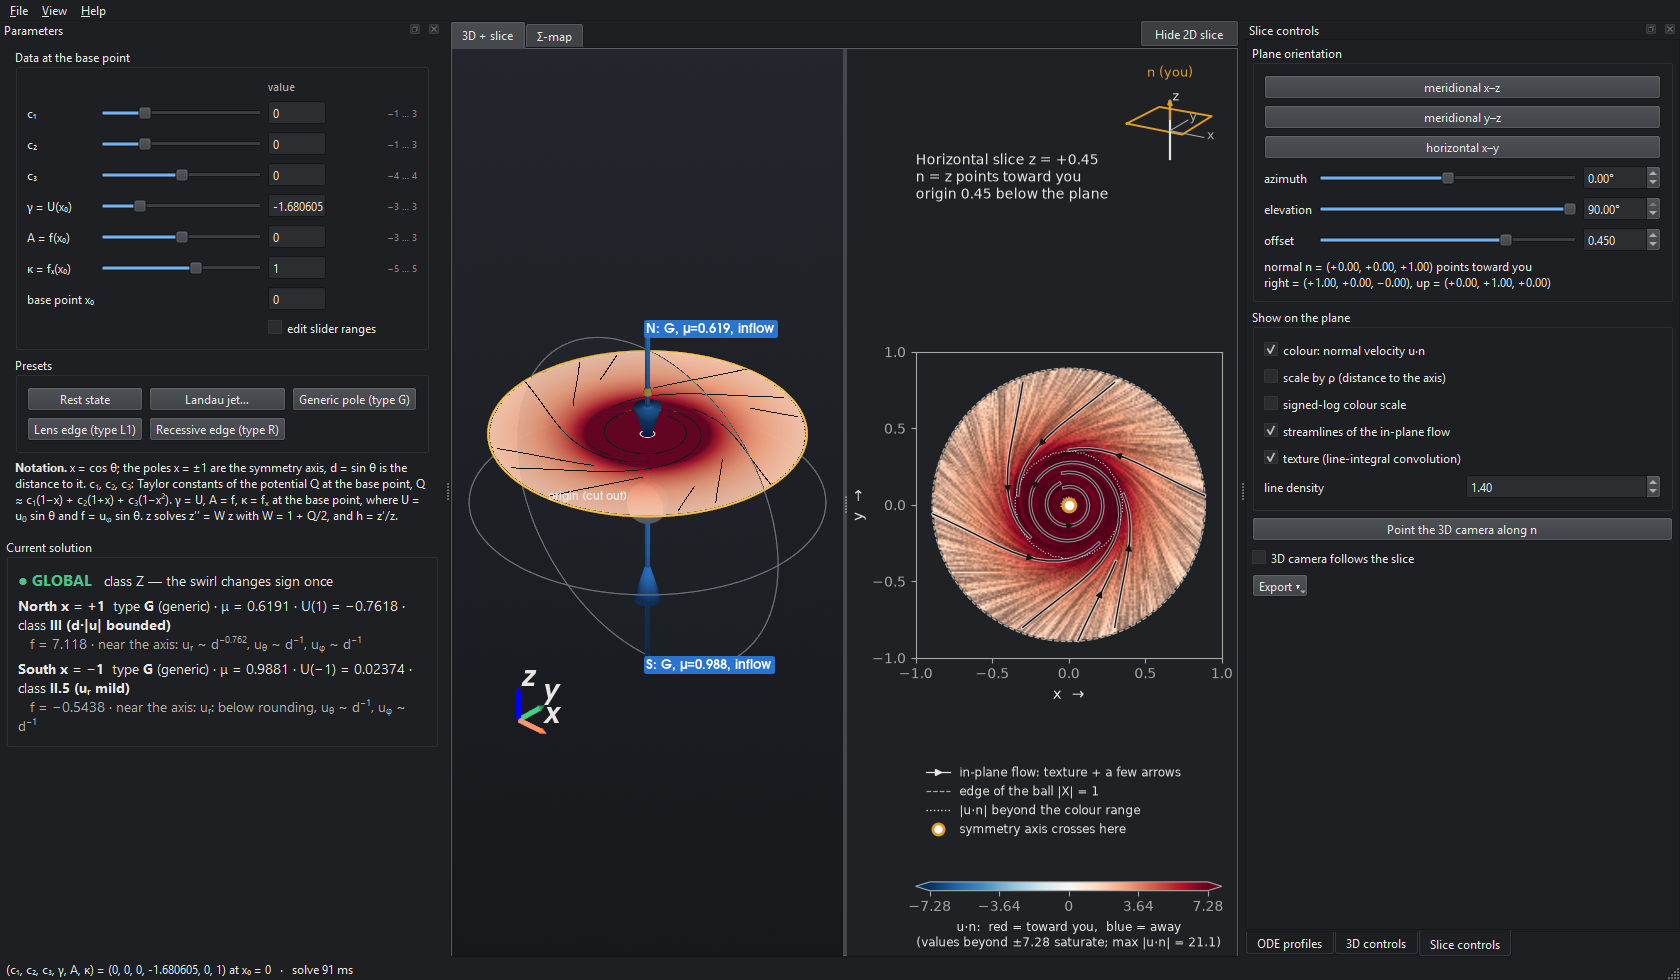
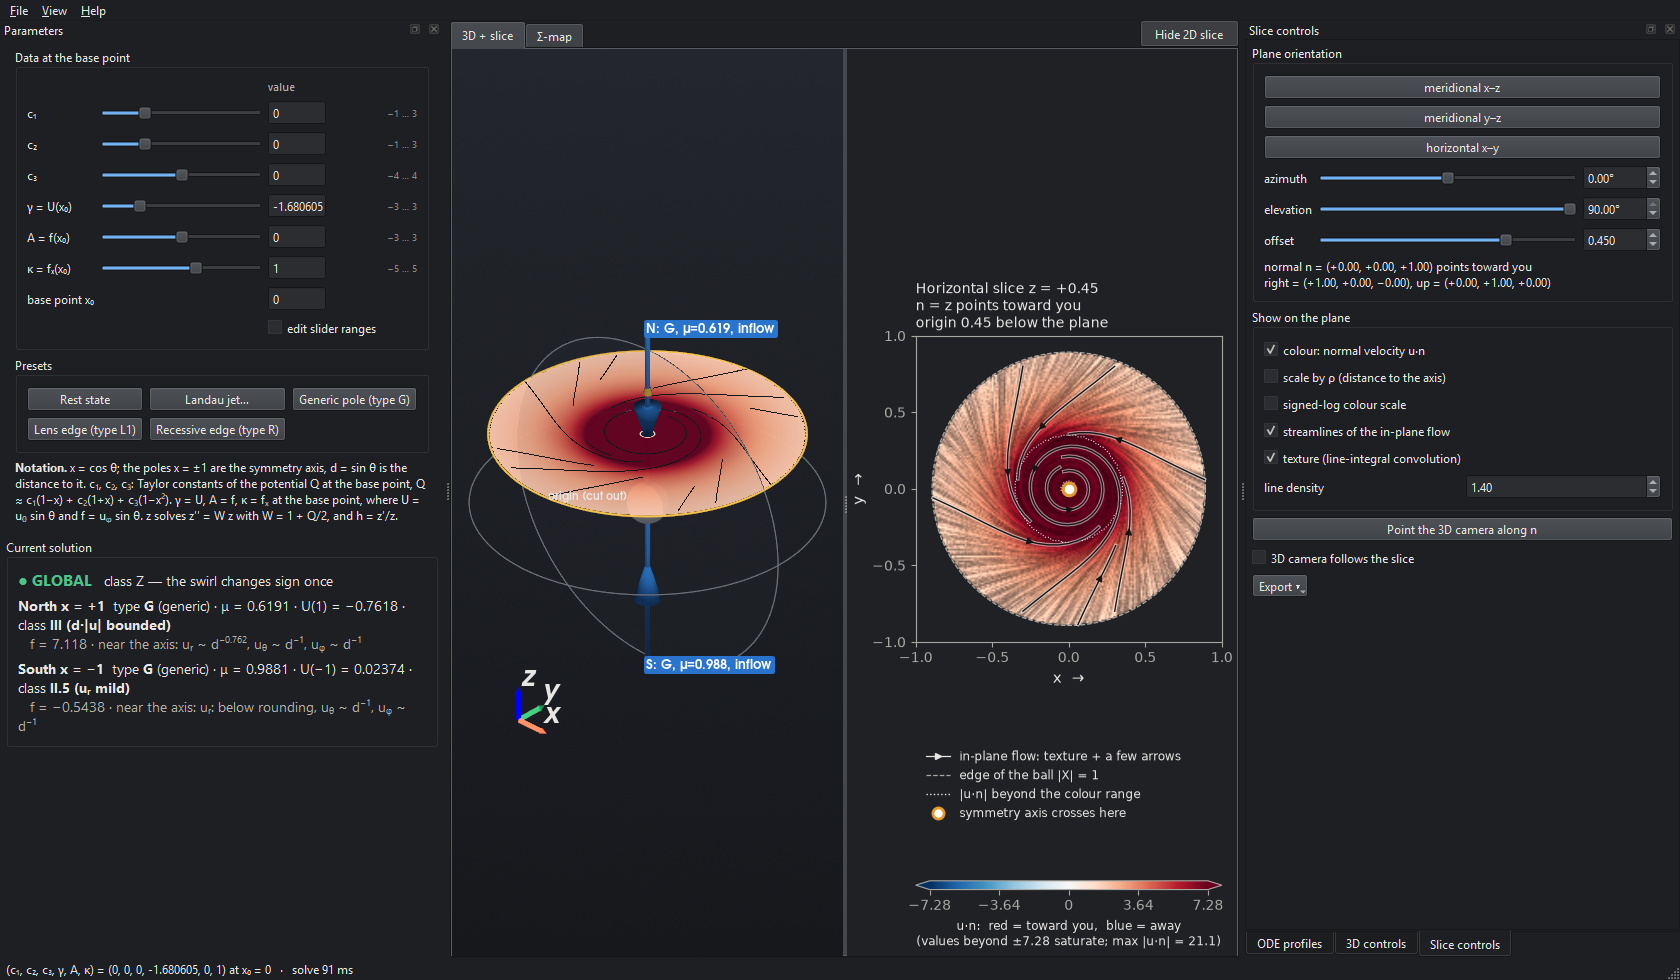
Slice: remove the 3D orientation sketch

diff --git a/swirl_explorer/ui/panels/slice_panel.py b/swirl_explorer/ui/panels/slice_panel.py
@@ -329,11 +329,7 @@ class SlicePanel(QWidget):
         self.fig.clear()
         self.fig.set_facecolor(p["plot_bg"])
         with matplotlib.rc_context(style.mpl_rc()):
-            # top row: title (left) + orientation sketch (right); below: the slice.  Separate cells, no overlap.
-            gs = self.fig.add_gridspec(2, 2, height_ratios=[1.3, 3.6], width_ratios=[1.5, 1])
-            ax_title = self.fig.add_subplot(gs[0, 0])
-            ax_title.set_axis_off()
-            ax = self.fig.add_subplot(gs[1, :])
+            ax = self.fig.add_subplot()
             L = data.spec.half_size
             ext = (-L, L, -L, L)
             AXIS_COL = "#e09a2d"
@@ -422,8 +418,8 @@ class SlicePanel(QWidget):
             where = ""
             if abs(d) > self.domain.r_min:
                 where = f"\norigin {abs(d):.2f} " + ("below" if d > 0 else "above") + " the plane"
-            ax_title.text(0.0, 0.05, f"{_plane_name(data.spec)}\nn = {_axis_name(n)} points toward you{where}",
-                          fontsize=10, ha="left", va="bottom", color=p["plot_ink"], transform=ax_title.transAxes)
+            ax.set_title(f"{_plane_name(data.spec)}\nn = {_axis_name(n)} points toward you{where}", fontsize=10,
+                         loc="left")
             ticks = np.arange(-L, L + 1e-9, 0.5)
             ax.set_xticks(ticks)
             ax.set_yticks(ticks)
@@ -432,27 +428,6 @@ class SlicePanel(QWidget):
             ax.set_ylim(-L, L)
             ax.legend(handles=handles, loc="upper left", bbox_to_anchor=(0.0, -0.32), ncol=1, fontsize=8.5,
                       frameon=False)
-            # orientation inset: the plane, its normal and the symmetry axis in 3D
-            ins = self.fig.add_subplot(gs[0, 1], projection="3d")
-            ins.set_axis_off()
-            ins.set_facecolor((0, 0, 0, 0))
-            c = data.spec.center
-            sq = np.array([[-1, -1], [1, -1], [1, 1], [-1, 1], [-1, -1]]) * 0.9
-            P = np.array([c + a_ * e1 + b_ * e2 for a_, b_ in sq])
-            ins.plot(P[:, 0], P[:, 1], P[:, 2], color="#e09a2d", lw=1.4)
-            ins.plot([0, 0], [0, 0], [-1.2, 1.2], color=p["plot_ink"], lw=1.6)
-            ins.text(0.08, 0.0, 1.25, "z", fontsize=9, color=p["plot_ink"])
-            ins.plot([0, 1.1], [0, 0], [0, 0], color=p["plot_ink2"], lw=0.8)
-            ins.plot([0, 0], [0, 1.1], [0, 0], color=p["plot_ink2"], lw=0.8)
-            ins.text(1.2, 0, -0.05, "x", fontsize=9, color=p["plot_ink2"])
-            ins.text(0, 1.2, -0.05, "y", fontsize=9, color=p["plot_ink2"])
-            ins.quiver(*c, *(0.8 * n), color="#e09a2d", lw=1.6, arrow_length_ratio=0.3)
-            tip = c + 1.0 * n
-            ins.text(*(tip + 0.6 * n), "n (you)", fontsize=9, color="#e09a2d", ha="center", va="bottom")
-            ins.set_xlim(-1, 1)
-            ins.set_ylim(-1, 1)
-            ins.set_zlim(-1, 1)
-            ins.view_init(elev=20, azim=-60)
         self.canvas.draw_idle()
         self.info.setText("")
 
